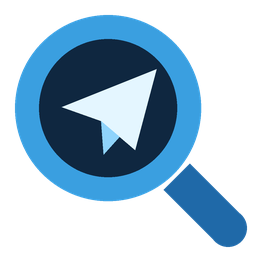
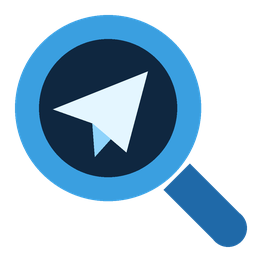
Centre the plane in the lens

Changed region(s): [[0.2188, 0.25, 0.625, 0.625], [0.3438, 0.3125, 0.5, 0.375]]

diff --git a/assets/brand/generate.py b/assets/brand/generate.py
@@ -35,8 +35,10 @@ RIM = 372
 GLASS = 276
 HANDLE = ((706, 706), (912, 912))
 HANDLE_WIDTH = 150
-PLANE = [(246, 428), (626, 276), (540, 600), (404, 484)]
-PLANE_FOLD = [(404, 484), (414, 618), (478, 547)]
+# Placed by eye-weight, not by bounding box: the lens centre sits midway between the
+# plane's area centroid and the centre of its smallest enclosing circle.
+PLANE = [(211, 437), (591, 285), (505, 609), (369, 493)]
+PLANE_FOLD = [(369, 493), (379, 627), (443, 556)]
 # Under 32 px the rim and handle are drawn heavier so the lens stays a ring, not a blob.
 SMALL_GLASS = 250
 
